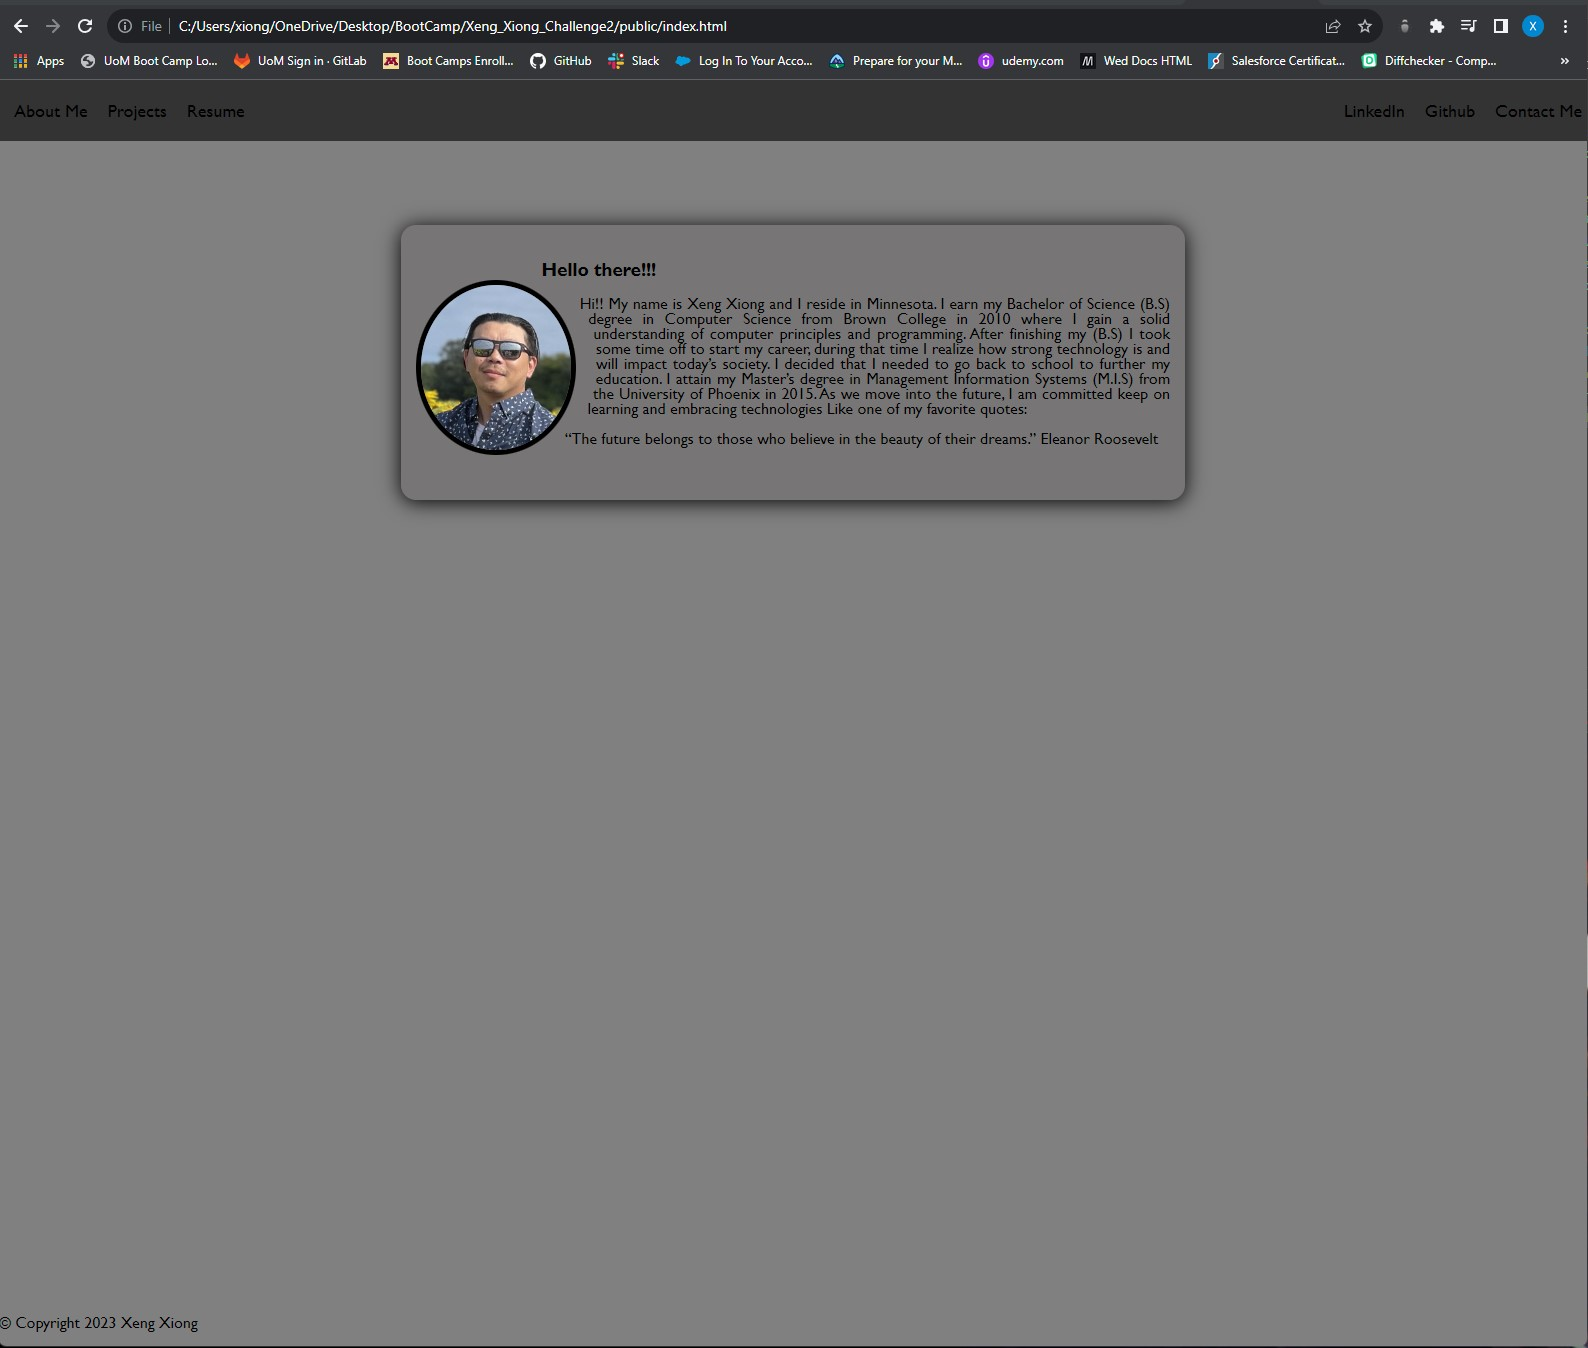
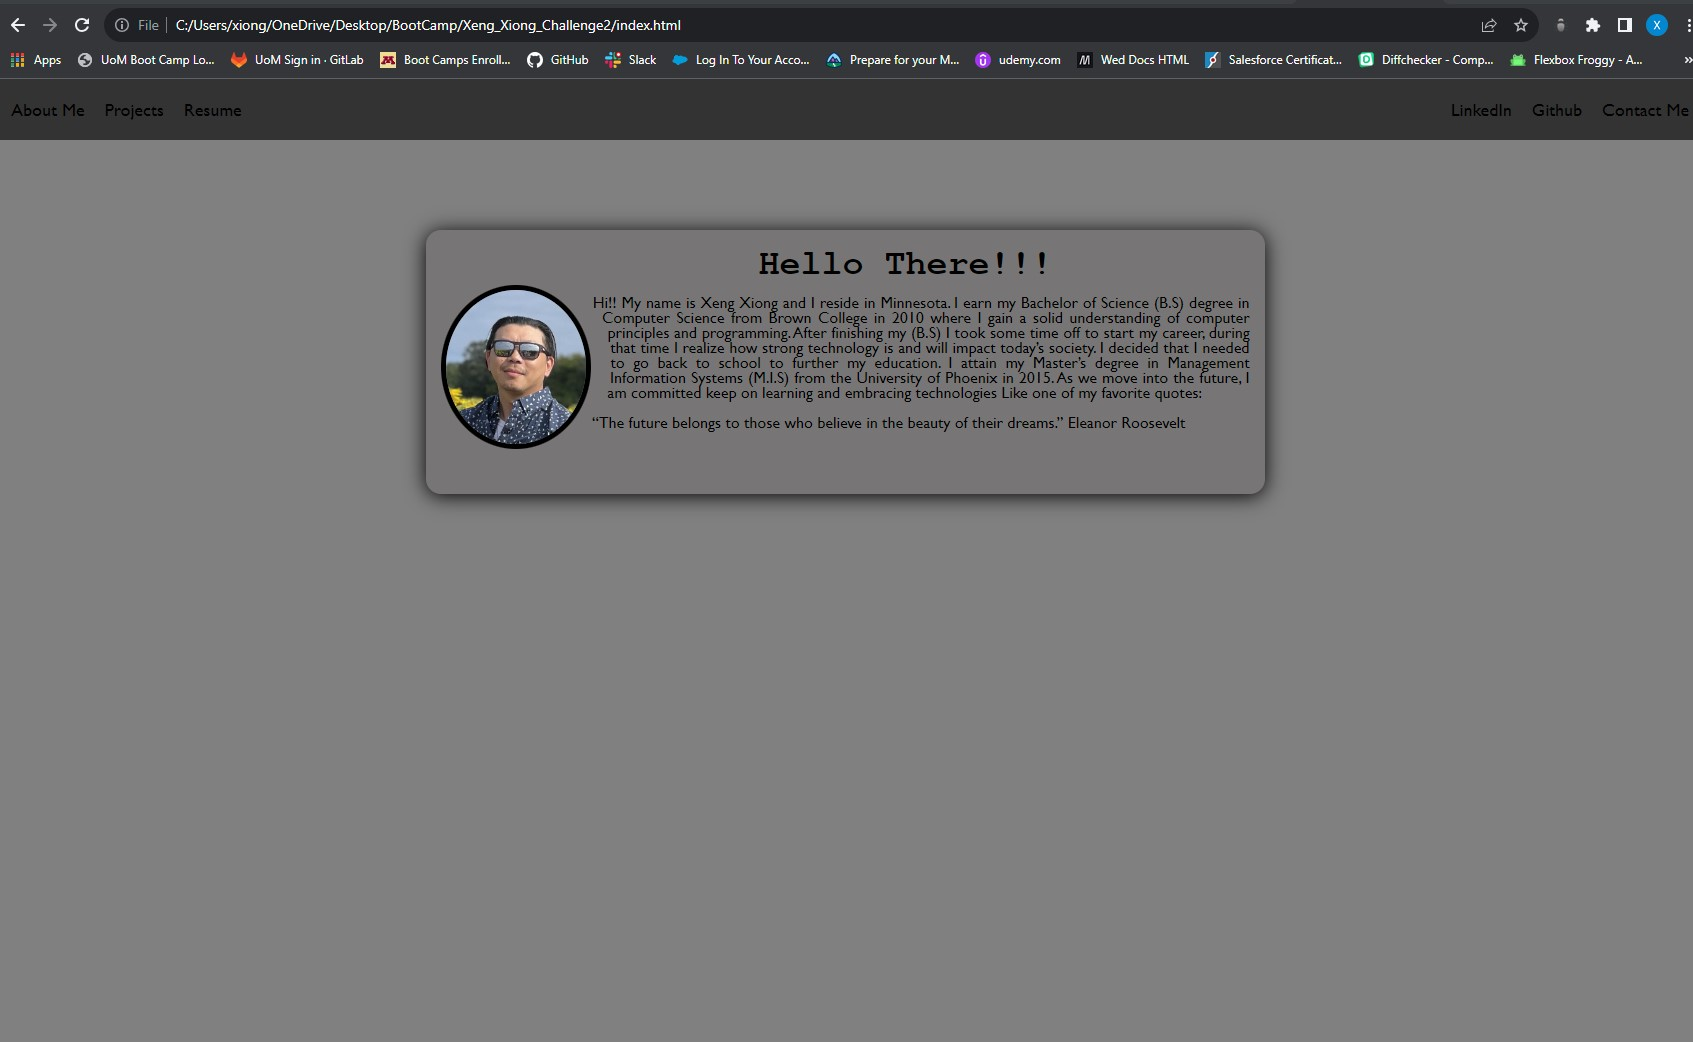
change text

Changed region(s): [[0.0, 0.0, 1.0, 0.4914], [0.0, 0.9827, 1.0, 1.0], [0.7406, 0.1843, 0.7714, 0.215]]

diff --git a/index.html b/index.html
@@ -31,7 +31,7 @@
         <section class="index">
             <section class="picture">
                 <img src="./assets/images/XX.jpg" alt="">
-                <h1>Hello there!!!</h1>
+                <h1>Hello There!!!</h1>
                 <p>Hi!! My name is Xeng Xiong and I reside in Minnesota. I earn my Bachelor of Science (B.S) degree in Computer Science from Brown College in 2010 where I gain a solid understanding of computer principles and programming. 
                     After finishing my (B.S) I took some time off to start my career, during that time I realize how strong technology is and will impact today’s society. I decided that I needed to go back to school to further my education. I attain my Master’s degree in Management Information Systems (M.I.S) from the University of Phoenix in 2015. 
                     As we move into the future, I am committed keep on learning and embracing technologies Like one of my favorite quotes:<br/>

diff --git a/assets/css/styles.css b/assets/css/styles.css
@@ -133,7 +133,7 @@ tr td{
 
 /***no resize***/
 textarea {
-        resize: none;
+  resize: none;
 }
 
 /***about me***/
@@ -166,13 +166,16 @@ textarea {
   shape-outside: circle();
 }
 
-h2{
-  font-family: 'Courier New', Courier, monospace;
+.index h1{
+  text-align: center;
+  font-size: 30px;
+  font-weight: bold;
+  font-family:'Gill Sans', 'Gill Sans MT', Calibri, 'Trebuchet MS', sans-serif ;
 }
 
 p{
   text-align: justify;
-  line-height: 15px;
+  line-height: 20px;
 }
 
 footer {

diff --git a/README.md b/README.md
@@ -28,9 +28,7 @@ Contact Me: Provided is my contact information, and also a contact form for anyo
 
 Screen shot of Project:
 
-![Challenge 2](assets/images/challege2_SS.jpg)
-
-
+![Alt text](assets/images/challege2_SS.jpg)
 
 
 
